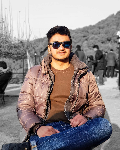
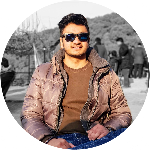
Modify image to be in round shape

diff --git a/_includes/header.html b/_includes/header.html
@@ -1,6 +1,6 @@
 <header id="header">
-	<a href="{{ site.author.url }}" target="_blank">
-		<img src="{{ "/img/asheesh.png" | prepend: site.baseurl | replace: '//', '/' }}" alt="Ashish Jaiswal">
+	<a href="{{ site.url }}">
+		<img src="{{ "/img/asheesh.png" | prepend: site.url | replace: '//', '/' }}" alt="Ashish Jaiswal">
 	  <h1>Ashish Jaiswal</h1>
 	</a>
 </header>

diff --git a/_posts/2015-03-19-typography.md b/_posts/2015-03-19-typography.md
@@ -1,7 +1,7 @@
 ---
 title: Typograhy example
 ---
-![Test](/img/img-test.png "Test")
+![Test](img/img-test.png "Test")
 Lorem ipsum dolor sit amet, [consectetur adipisicing](http://www.example.com) elit. Id, aliquam magni et officiis nemo nihil aliquid placeat alias. Eum voluptates ducimus, nobis ex illum laboriosam quidem corrupti impedit ratione in voluptatum amet beatae facilis temporibus voluptate praesentium voluptatibus! At ab, iusto error amet eveniet debitis ipsa recusandae possimus minima sunt itaque, nulla ducimus officia, consequatur ipsum laudantium magnam hic fuga vero incidunt nostrum. Commodi, perspiciatis ut nostrum fugit nulla cumque voluptate harum nemo accusamus? 
 
 ## This is a h2
